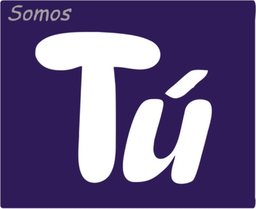
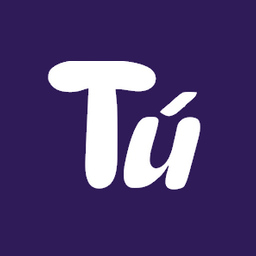
Guía: selo Aliado Tu Delivery em roxo (cor da marca) e ícone da Tu Delivery quadrado, sem distorção
Claude-Session: https://claude.ai/code/session_019EnWZ2w3FzxJZ5bukhMXBN

Changed region(s): [[0.125, 0.1435, 0.8438, 0.89], [0.0, 0.0, 1.0, 1.0]]

diff --git a/araujo-tech-site/guia/index.html b/araujo-tech-site/guia/index.html
@@ -66,7 +66,7 @@ a{color:inherit}
 .bd.on{background:#E7F7EE;color:#11845A}.bd.on i{width:6px;height:6px;border-radius:50%;background:#16A34A}
 .bd.on{background:#16A34A;color:#fff}.bd.on i{width:7px;height:7px;background:#fff!important}.bd.off{background:#FDE8E8;color:#B42318}.bd.off::before{content:'';width:7px;height:7px;border-radius:50%;background:#DC2626}.bd.dl{background:var(--lilac);color:var(--deep)}
 .bd.rt{background:#FFF8E1;color:#8A5A00}.bd.rt svg{color:#F5A400;fill:#F5A400}.bd.rt small{font-weight:500}
-.card.dir{align-items:flex-start;cursor:default}.card.dir:hover{transform:none}.card.dir .lg{background:var(--lilac)}.dmeta{display:flex;flex-direction:column;gap:2px;margin-top:4px}.dmeta span{display:inline-flex;gap:6px;align-items:center;font-size:13px;color:var(--muted)}.dmeta svg{width:13px;height:13px;flex:none}.dact{display:flex;gap:6px;flex-wrap:wrap;margin-top:10px}.dact a{font-size:13px;font-weight:700;text-decoration:none;padding:7px 12px;border-radius:999px;border:1px solid var(--line);color:var(--deep);display:inline-flex;gap:6px;align-items:center;background:#fff}.dact a:hover{border-color:var(--purple)}.dact svg{width:14px;height:14px}.qn{color:var(--muted);font-size:13.5px;margin:-4px 0 10px}.qmore button svg{transform:none!important}@media (min-width:900px){.qn{text-align:center}}.qrow{display:flex;gap:12px;overflow-x:auto;scroll-snap-type:x mandatory;scroll-padding:0 24px;margin:0 -24px;padding:4px 24px 12px;scrollbar-width:none;text-align:left}.qrow::-webkit-scrollbar{display:none}.qc{flex:0 0 212px;scroll-snap-align:start;background:#fff;border:1px solid var(--line);border-radius:18px;padding:14px;display:flex;flex-direction:column;gap:5px;text-decoration:none;color:var(--ink);box-shadow:0 10px 24px -20px rgba(36,9,63,.5)}.qc:hover{border-color:var(--purple)}.qlg{width:54px;height:54px;border-radius:14px;overflow:hidden;background:var(--lilac);display:grid;place-items:center;border:1px solid var(--line);margin-bottom:4px}.qlg img{width:100%;height:100%;object-fit:cover}.qlg b{font-family:var(--display);font-weight:900;color:var(--purple);font-size:18px}.qc .n{font-family:var(--display);font-weight:800;font-size:16px;line-height:1.15}.qc small{color:var(--muted);font-size:13px;line-height:1.3}.qbd{display:flex;gap:5px;flex-wrap:wrap;margin-top:2px}.qgo{margin-top:auto;padding-top:8px;font-weight:700;font-size:13.5px;color:var(--deep);display:inline-flex;gap:6px;align-items:center}.qgo svg{width:15px;height:15px}.qc.qw .qgo{color:#16833F}@media (min-width:900px){.qrow{flex-wrap:wrap;justify-content:center;overflow:visible;margin:0;padding:4px 0 12px}.qc{flex:0 0 232px}}@media (max-width:640px){.qrow{margin:0 -16px;padding-left:16px;padding-right:16px;scroll-padding:0 16px}}.qtu{display:grid;grid-template-columns:repeat(4,1fr);gap:6px;margin:-4px auto 14px;max-width:560px}.qtu button{position:relative;border:1px solid var(--line);background:#fff;color:var(--deep);font:inherit;font-size:13px;font-weight:700;padding:9px 4px;border-radius:999px;cursor:pointer;white-space:nowrap}.qtu button[aria-selected=true]{background:var(--deep,#24093F);border-color:var(--deep,#24093F);color:#fff}.qtu button.now::after{content:'';position:absolute;top:3px;right:9px;width:7px;height:7px;border-radius:50%;background:#1FA855;border:1.5px solid #fff}.card.dir{flex-wrap:wrap}.card.dir .dact{flex-basis:100%;margin-top:2px}.grid>.card{align-items:flex-start}.dact a.pri{background:#1FA855;border-color:#1FA855;color:#fff}.card.dir.td .lg{background:#fff;border:1px solid var(--line)}.card.dir .lg img{width:100%;height:100%;object-fit:cover}.bd.vx{background:#F1E7FD;color:#4A0A80}.bd.tdl{background:#1F5BD6;color:#fff}
+.card.dir{align-items:flex-start;cursor:default}.card.dir:hover{transform:none}.card.dir .lg{background:var(--lilac)}.dmeta{display:flex;flex-direction:column;gap:2px;margin-top:4px}.dmeta span{display:inline-flex;gap:6px;align-items:center;font-size:13px;color:var(--muted)}.dmeta svg{width:13px;height:13px;flex:none}.dact{display:flex;gap:6px;flex-wrap:wrap;margin-top:10px}.dact a{font-size:13px;font-weight:700;text-decoration:none;padding:7px 12px;border-radius:999px;border:1px solid var(--line);color:var(--deep);display:inline-flex;gap:6px;align-items:center;background:#fff}.dact a:hover{border-color:var(--purple)}.dact svg{width:14px;height:14px}.qn{color:var(--muted);font-size:13.5px;margin:-4px 0 10px}.qmore button svg{transform:none!important}@media (min-width:900px){.qn{text-align:center}}.qrow{display:flex;gap:12px;overflow-x:auto;scroll-snap-type:x mandatory;scroll-padding:0 24px;margin:0 -24px;padding:4px 24px 12px;scrollbar-width:none;text-align:left}.qrow::-webkit-scrollbar{display:none}.qc{flex:0 0 212px;scroll-snap-align:start;background:#fff;border:1px solid var(--line);border-radius:18px;padding:14px;display:flex;flex-direction:column;gap:5px;text-decoration:none;color:var(--ink);box-shadow:0 10px 24px -20px rgba(36,9,63,.5)}.qc:hover{border-color:var(--purple)}.qlg{width:54px;height:54px;border-radius:14px;overflow:hidden;background:var(--lilac);display:grid;place-items:center;border:1px solid var(--line);margin-bottom:4px}.qlg img{width:100%;height:100%;object-fit:cover}.qlg b{font-family:var(--display);font-weight:900;color:var(--purple);font-size:18px}.qc .n{font-family:var(--display);font-weight:800;font-size:16px;line-height:1.15}.qc small{color:var(--muted);font-size:13px;line-height:1.3}.qbd{display:flex;gap:5px;flex-wrap:wrap;margin-top:2px}.qgo{margin-top:auto;padding-top:8px;font-weight:700;font-size:13.5px;color:var(--deep);display:inline-flex;gap:6px;align-items:center}.qgo svg{width:15px;height:15px}.qc.qw .qgo{color:#16833F}@media (min-width:900px){.qrow{flex-wrap:wrap;justify-content:center;overflow:visible;margin:0;padding:4px 0 12px}.qc{flex:0 0 232px}}@media (max-width:640px){.qrow{margin:0 -16px;padding-left:16px;padding-right:16px;scroll-padding:0 16px}}.qtu{display:grid;grid-template-columns:repeat(4,1fr);gap:6px;margin:-4px auto 14px;max-width:560px}.qtu button{position:relative;border:1px solid var(--line);background:#fff;color:var(--deep);font:inherit;font-size:13px;font-weight:700;padding:9px 4px;border-radius:999px;cursor:pointer;white-space:nowrap}.qtu button[aria-selected=true]{background:var(--deep,#24093F);border-color:var(--deep,#24093F);color:#fff}.qtu button.now::after{content:'';position:absolute;top:3px;right:9px;width:7px;height:7px;border-radius:50%;background:#1FA855;border:1.5px solid #fff}.card.dir{flex-wrap:wrap}.card.dir .dact{flex-basis:100%;margin-top:2px}.grid>.card{align-items:flex-start}.dact a.pri{background:#1FA855;border-color:#1FA855;color:#fff}.card.dir.td .lg{background:#fff;border:1px solid var(--line)}.card.dir .lg img{width:100%;height:100%;object-fit:cover}.bd.vx{background:#F1E7FD;color:#4A0A80}.bd.tdl{background:#4A0A80;color:#fff}
 .bd.st{background:#FFF4D1;color:#7A5200}.bd svg{width:12px;height:12px}
 .card.dest{border-color:#E9C46A;box-shadow:0 0 0 1px #F3DE9E inset;position:relative;overflow:hidden}.card.dest::before{content:"";position:absolute;left:0;right:0;top:0;height:4px;background:linear-gradient(90deg,#FFC21A,#F59E0B)}.bd.st{background:#FFC21A;color:#3D2600}
 .util{margin:6px 0 40px}
@@ -382,7 +382,7 @@ footer a{color:#fff;font-weight:500}
 .ft-soc a.s-wa{background:#25D366}.ft-soc a.s-fb{background:#1877F2}.ft-soc a.s-ig{background:radial-gradient(circle at 30% 110%,#FDD100 0%,#F5761A 30%,#D6249F 60%,#6A3BD5 100%)}.ft-soc a.s-yt{background:#FF0000}.ft-soc a.s-tt{background:#111}
 
 /* selos: Catálogo Vitrix (cards), VIP amarelo (só no slider), Aliado Tu Delivery azul */
-.fc-tg.td{background:#1F5BD6;color:#fff}
+.fc-tg.td{background:#4A0A80;color:#fff}
 .sd .tg.vip{background:var(--yellow);color:var(--night);font-weight:800;letter-spacing:.02em}.sd .tg.vip svg{fill:currentColor}
 /* Mi cuenta */
 .acc-n{font-size:13px;color:var(--muted);padding:0 10px 4px}
@@ -701,7 +701,7 @@ function prosHTML(q){const t=TX[L];const l=(G.pros||[]).filter(p=>proMatch(p,q))
  return `<section class="grp" id="profesionales"><h2>${ic('user')}${t.pro_h}</h2>${ks.map(k=>`<div class="sub2">${ic(PA[k][0])}${esc(PA[k][1][L])}</div><div class="grid" style="margin-bottom:18px">${l.filter(p=>(PA[p.a]?p.a:'otro')===k).map(proCard).join('')}</div>`).join('')}<p class="pjoin">${t.pro_join} <a href="${esc(AT_WA)}" target="_blank" rel="noopener">${t.pro_join_b}</a></p></section>`}
 const AT_WA='https://wa.me/595982086171?text='+encodeURIComponent('Hola Araújo Tech, soy profesional y quiero aparecer en la Guía de Santa Rita');
 const TDQ=/deliv|entreg|envio|envi|moto|mandad|pedido|tu ?delivery/;
-function tdCard(){const t=TX[L];return `<a class="card" href="${esc(TD_WA)}" target="_blank" rel="noopener"><span class="lg"><img src="../img/guia/td-icono.png" alt="" width="66" height="66" style="object-fit:contain;background:#301C57;padding:6px"></span><span class="tx"><h3>Tu Delivery</h3><p>${esc(t.td_p)}</p><span class="bdg"><span class="bd dl">${ic('bike')}0982 086 171</span></span><span class="go">${t.td_go}${ic('arrow')}</span></span></a>`}
+function tdCard(){const t=TX[L];return `<a class="card" href="${esc(TD_WA)}" target="_blank" rel="noopener"><span class="lg"><img src="../img/guia/td-icono.png?v=2" alt="" width="66" height="66" style="object-fit:contain;background:#301C57;padding:6px"></span><span class="tx"><h3>Tu Delivery</h3><p>${esc(t.td_p)}</p><span class="bdg"><span class="bd dl">${ic('bike')}0982 086 171</span></span><span class="go">${t.td_go}${ic('arrow')}</span></span></a>`}
 const EDU=['gua','escpub','escpri','unipub','unipri','inst','edu'];
 const PSYN={gua:/guarder|jardin|creche|maternal|preescol|kinder/,unipub:/universid|faculd/,unipri:/universid|faculd/,inst:/institut|curso|idioma|ingles|academia/,igl:/iglesi|igrej|parroq|paroqu|templo|culto|misa|missa|evangel|catolic|capilla|asamblea/,com:/asociac|associa|ong|comunid|volunt|benefic|fundac/,dep:/deport|esport|club|futbol|futsal|cancha|gimnas|academia|padel|voley/,ani:/veterin|mascot|perro|gato|adopc|adoc|pet/,fin:/banco|coopera|cajero|cambio|financ|segur/,far:/farmac|drogu|remed/,doc:/cedul|pasaport|document|identif|migrac|residen|registro|partida|certific/,gob:/munic|prefeit|intend|tramit|juzg|justic|impuest/,salud:/hospit|medic|doctor|salud|saude|ips|clinic|urgenc|vacun|farmac/,seg:/polic|comisar|delegac|bomber|denunc/,ocio:/plaza|praca|parque|balnear|piscin|pileta|rio|playa|deport|futbol|cancha|paseo/,trans:/termin|omnibus|onibus|colectiv|rodoviar|pasaje|bus/,serv:/ande|luz|agua|correo|junta|saneam/,edu:/escuel|escola|colegio|universid|faculd|bibliotec/};
 const plSlug=p=>norm(p.n).replace(/[^a-z0-9]+/g,'-').replace(/^-+|-+$/g,'').slice(0,70)+'-'+String(p.c||'').replace(/[^a-z]/g,'');
@@ -837,7 +837,7 @@ function fdHTML(){const t=TX[L],l=(LIST||[]).filter(c=>c.vip||c.dest).sort((a,b)
   return `<div class="fc"><a class="fc-a" href="${GB}${esc(c.id)}" data-id="${esc(c.id)}"><span class="fc-cv">${i.cv?`<img src="${esc(i.cv)}" alt="" loading="lazy">`:''}<span class="fc-tg vx">${ic('grid')}${t.vx_seal}</span></span><span class="fc-b"><span class="fc-lg">${lg?`<img src="${esc(lg)}" alt="" loading="lazy" data-ini="${esc(ini(c.name))}">`:`<b>${esc(ini(c.name))}</b>`}</span><span class="fc-t"><b>${esc(c.name)}</b><small>${esc(seg||'')}</small>${i.rt&&i.rn?`<em>${ic('star')}${String(i.rt.toFixed?i.rt.toFixed(1):i.rt).replace('.',',')} <small>(${+i.rn})</small></em>`:''}</span></span></a>${w?`<a class="fc-wa" href="${esc(w)}" target="_blank" rel="noopener" data-id="${esc(c.id)}" aria-label="WhatsApp ${esc(c.name)}">${ic('wa')}</a>`:''}</div>`}).join('')}</div></section>`}
 /* recomendados: clientes Tu Delivery (fichas com WhatsApp) */
 function rcHTML(){const t=TX[L],l=dirL().filter(c=>c.td).sort((a,b)=>(b.ph?1:0)-(a.ph?1:0));if(!l.length)return '';
- return `<section class="fd rc" id="aliados"><div class="sh"><h2><img src="/img/guia/td-icono.png" alt="" width="26" height="26">${t.rc_h}</h2></div><div class="fr">${l.map(c=>{const w=waU(c.wa),wp=w?w+'?text='+encodeURIComponent(t.td_msg):'';
+ return `<section class="fd rc" id="aliados"><div class="sh"><h2><img src="/img/guia/td-icono.png?v=2" alt="" width="26" height="26">${t.rc_h}</h2></div><div class="fr">${l.map(c=>{const w=waU(c.wa),wp=w?w+'?text='+encodeURIComponent(t.td_msg):'';
   return c.ph?`<div class="fc">${wp?`<a class="fc-a" href="${esc(wp)}" target="_blank" rel="noopener" data-id="${esc(c.id)}">`:'<span class="fc-a">'}<span class="fc-cv"><img src="${esc(c.ph)}" alt="" loading="lazy"><span class="fc-tg td">${ic('star')}${t.rc_tag}</span></span><span class="fc-b"><span class="fc-lg">${c.lg?`<img src="${esc(c.lg)}" alt="" loading="lazy">`:`<b>${esc(ini(c.name))}</b>`}</span><span class="fc-t"><b>${esc(c.name)}</b><small>${esc(c.segEs||'')}</small></span></span>${wp?'</a>':'</span>'}${wp?`<a class="fc-wa" href="${esc(wp)}" target="_blank" rel="noopener" data-id="${esc(c.id)}" aria-label="WhatsApp ${esc(c.name)}">${ic('wa')}</a>`:''}</div>`:`<div class="fc">${wp?`<a class="fc-a" href="${esc(wp)}" target="_blank" rel="noopener" data-id="${esc(c.id)}">`:'<span class="fc-a">'}<span class="fc-cv rc-cv">${c.lg?`<img class="rc-lg" src="${esc(c.lg)}" alt="" loading="lazy">`:`<b class="rc-in">${esc(ini(c.name))}</b>`}<span class="fc-tg td">${ic('star')}${t.rc_tag}</span></span><span class="fc-b"><span class="fc-t"><b>${esc(c.name)}</b><small>${esc(c.segEs||'')}</small></span></span>${wp?'</a>':'</span>'}${wp?`<a class="fc-wa" href="${esc(wp)}" target="_blank" rel="noopener" data-id="${esc(c.id)}" aria-label="WhatsApp ${esc(c.name)}">${ic('wa')}</a>`:''}</div>`}).join('')}</div></section>`}
 /* coluna lateral do computador: clima, agenda e notícias */
 function sideHTML(){const t=TX[L],w=HOY&&HOY.w,k=w?wKind(w.c):null,ev=(G.ev||[]).concat(ferNext()).sort((a,b)=>String(a.d).localeCompare(String(b.d)))[0],nw=(NEWS&&NEWS.items||[]).slice(0,2);
